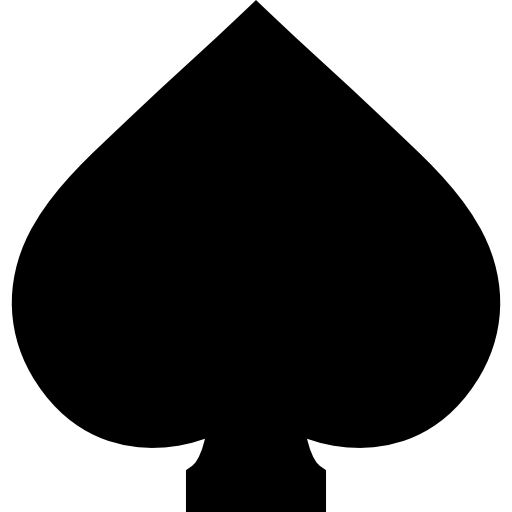
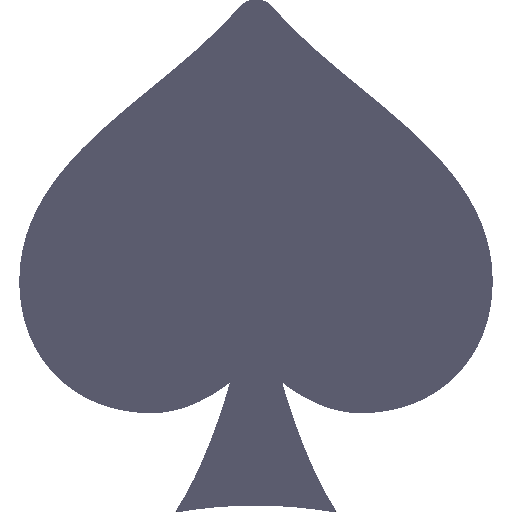
Updated Adjust View to look nice and provide more information
Also fixed a bug in label translation and updated some graphics

diff --git a/lib/AdjustScreen/CardAdjuster.dart b/lib/AdjustScreen/CardAdjuster.dart
@@ -1,43 +1,69 @@
+import 'dart:ui';
+
 import 'package:flutter/material.dart';
 import 'package:uberkabahle/CameraScreen/TensorFlow/Recognition.dart';
 
 class CardAdjuster extends StatefulWidget {
   final List<String> options;
+  final String location;
   final Recognition recognition;
-  const CardAdjuster({required this.options, required this.recognition, Key? key}) : super(key: key);
+  const CardAdjuster({required this.options, required this.location, required this.recognition, Key? key}) : super(key: key);
 
   @override
-  State<CardAdjuster> createState() => _CardAdjusterState(options: options, recognition: recognition);
+  State<CardAdjuster> createState() => _CardAdjusterState(options: options, locatioan: location, recognition: recognition);
 }
 
 class _CardAdjusterState extends State<CardAdjuster> {
-  late List<String> options;
-  late Recognition recognition;
+  final List<String> options;
+  final String locatioan;
+  final Recognition recognition;
 
-  _CardAdjusterState({required this.options, required this.recognition});
+  _CardAdjusterState({required this.options, required this.locatioan, required this.recognition});
 
   @override
   Widget build(BuildContext context) {
     return Positioned(
-      left: recognition.renderLocation.left,
-      top: recognition.renderLocation.top,
-      // width: 100,
-      // height: 40,
-      // Postition Here
-      // ...
-      // ...
-      child: DropdownButton(
-        value: recognition.label,
-        items: options.map(buildMenuItem).toList(),
-        onChanged: (value) => setState(() => recognition.label = value as String),
+      left: recognition.renderLocation.left - 30,
+      top: recognition.renderLocation.top - 30,
+      child: Container(
+        decoration: BoxDecoration(
+          backgroundBlendMode: BlendMode.darken,
+          color: Colors.grey.withOpacity(0.75),
+          borderRadius: const BorderRadius.all(
+            Radius.circular(10),
+          ),
+        ),
+        child: Column(
+          mainAxisAlignment: MainAxisAlignment.center,
+          children: [
+            Text(
+              locatioan,
+              style: const TextStyle(
+                fontSize: 24,
+                fontWeight: FontWeight.bold,
+                color: Color.fromARGB(255, 13, 95, 163),
+              ),
+            ),
+            DropdownButton(
+              value: recognition.label,
+              items: options.map(buildMenuItem).toList(),
+              onChanged: (value) => setState(() => recognition.label = value as String),
+            ),
+          ],
+        ),
       ),
     );
   }
 
   DropdownMenuItem<String> buildMenuItem(String text) => DropdownMenuItem(
-      value: text,
-      child: Text(
-        text,
-        style: const TextStyle(fontWeight: FontWeight.bold, fontSize: 15),
-      ));
+        value: text,
+        child: Text(
+          text,
+          style: const TextStyle(
+            fontSize: 16,
+            fontWeight: FontWeight.bold,
+            color: Color.fromARGB(255, 13, 95, 163),
+          ),
+        ),
+      );
 }

diff --git a/lib/AdjustScreen/AdjustView.dart b/lib/AdjustScreen/AdjustView.dart
@@ -21,6 +21,23 @@ class _AdjustViewState extends State<AdjustView> {
   late List<Recognition> sortedRecognitions;
   final List<String> options;
   late List<String> newOptions = [];
+
+  List<String> possibleLocation = ["F1", "F2", "F3", "F4", "T1", "T2", "T3", "T4", "T5", "T6", "T7", "Stack"];
+
+  // List<String> possibleLocation = [
+  //   "Foundation 1",
+  //   "Foundation 2",
+  //   "Foundation 3",
+  //   "Foundation 4",
+  //   "Tablaou 1",
+  //   "Tablaou 2",
+  //   "Tablaou 3",
+  //   "Tablaou 4",
+  //   "Tablaou 5",
+  //   "Tablaou 6",
+  //   "Tablaou 7",
+  //   "Stack"
+  // ];
   final File imageFile;
 
   _AdjustViewState({required this.imageFile, required this.options, required this.sortedRecognitions, Key? key}) {
@@ -69,14 +86,26 @@ class _AdjustViewState extends State<AdjustView> {
   }
 
   Stack getAdjustmentWidgets() {
-    return Stack(
-      children: sortedRecognitions
-          .map((recognition) => CardAdjuster(
-                options: newOptions,
-                recognition: recognition,
-              ))
-          .toList(),
-    );
+    List<CardAdjuster> adjustmentWidgets = [];
+    int index = 0;
+
+    for (Recognition recognition in sortedRecognitions) {
+      if (recognition.label != 'e') {
+        adjustmentWidgets.add(CardAdjuster(options: newOptions, location: possibleLocation[index], recognition: recognition));
+      }
+      index++;
+    }
+
+    return Stack(children: adjustmentWidgets);
+
+    // return Stack(
+    //   children: sortedRecognitions
+    //       .map((recognition) => CardAdjuster(
+    //             options: newOptions,
+    //             recognition: recognition,
+    //           ))
+    //       .toList(),
+    // );
   }
 }
 

diff --git a/lib/MoveScreen/MoveIndicater.dart b/lib/MoveScreen/MoveIndicater.dart
@@ -30,7 +30,7 @@ class MoveIndicator extends StatelessWidget {
                               ),
                               const Text(
                                 "Flip Stack",
-                                style: const TextStyle(fontSize: 22, fontWeight: FontWeight.bold),
+                                style: TextStyle(fontSize: 22, fontWeight: FontWeight.bold),
                               ),
                             ],
                           ),
@@ -104,29 +104,5 @@ class MoveIndicator extends StatelessWidget {
         ],
       ),
     );
-
-    // // For placing on top of relevant pile:
-    // // *************************************
-    // return Positioned(
-    //   left: (moveCard) ? 100 : 300,
-    //   top: 200,
-    //   width: 150,
-
-    //   // left: card.renderLocation.left,
-    //   // top: card.renderLocation.top,
-    //   // width: card.renderLocation.width,
-    //   // height: card.renderLocation.height,
-    //   child: Column(
-    //     children: [
-    //       Image.asset(
-    //         "assets/cards/${card.label}.png",
-    //       ),
-    //       Text(
-    //         "Column $columnIndex",
-    //         style: TextStyle(fontSize: 20),
-    //       ),
-    //     ],
-    //   ),
-    // );
   }
 }

diff --git a/lib/MoveScreen/AlgoritmController/AlgoritmController.dart b/lib/MoveScreen/AlgoritmController/AlgoritmController.dart
@@ -64,7 +64,9 @@ class AlgorithmController {
     label = label.replaceAll("13", "K");
     label = label.replaceAll("12", "Q");
     label = label.replaceAll("11", "J");
-    label = label.replaceAll("1", "A");
+    if (!label.contains("10")) {
+      label = label.replaceAll("1", "A");
+    }
 
     return label.substring(1, label.length) + label.substring(0, 1);
   }

diff --git a/lib/MoveScreen/AlgoritmController/SuggestedMove.dart b/lib/MoveScreen/AlgoritmController/SuggestedMove.dart
@@ -1,5 +1,4 @@
-import 'package:uberkabahle/CameraScreen/TensorFlow/Recognition.dart';
-
+/// Class for holding a move.
 class SuggestedMove {
   String moveCard;
   String toCard;
